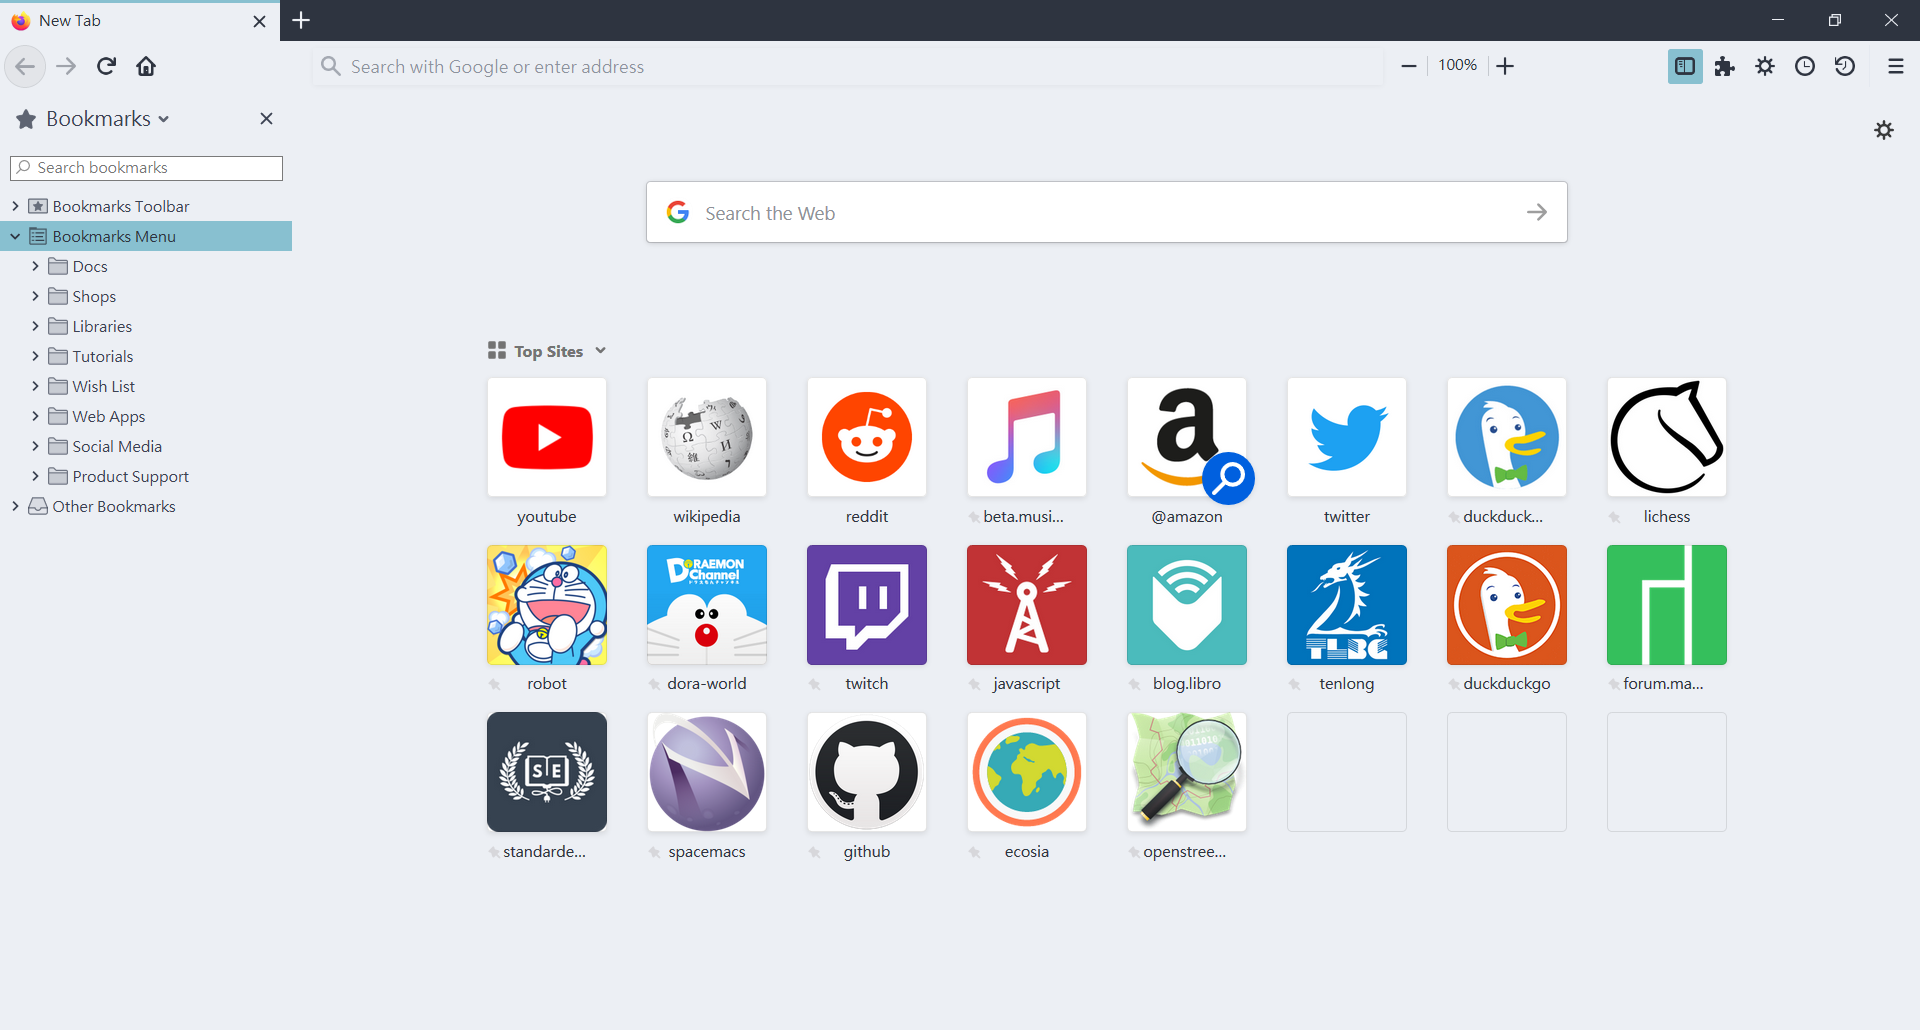
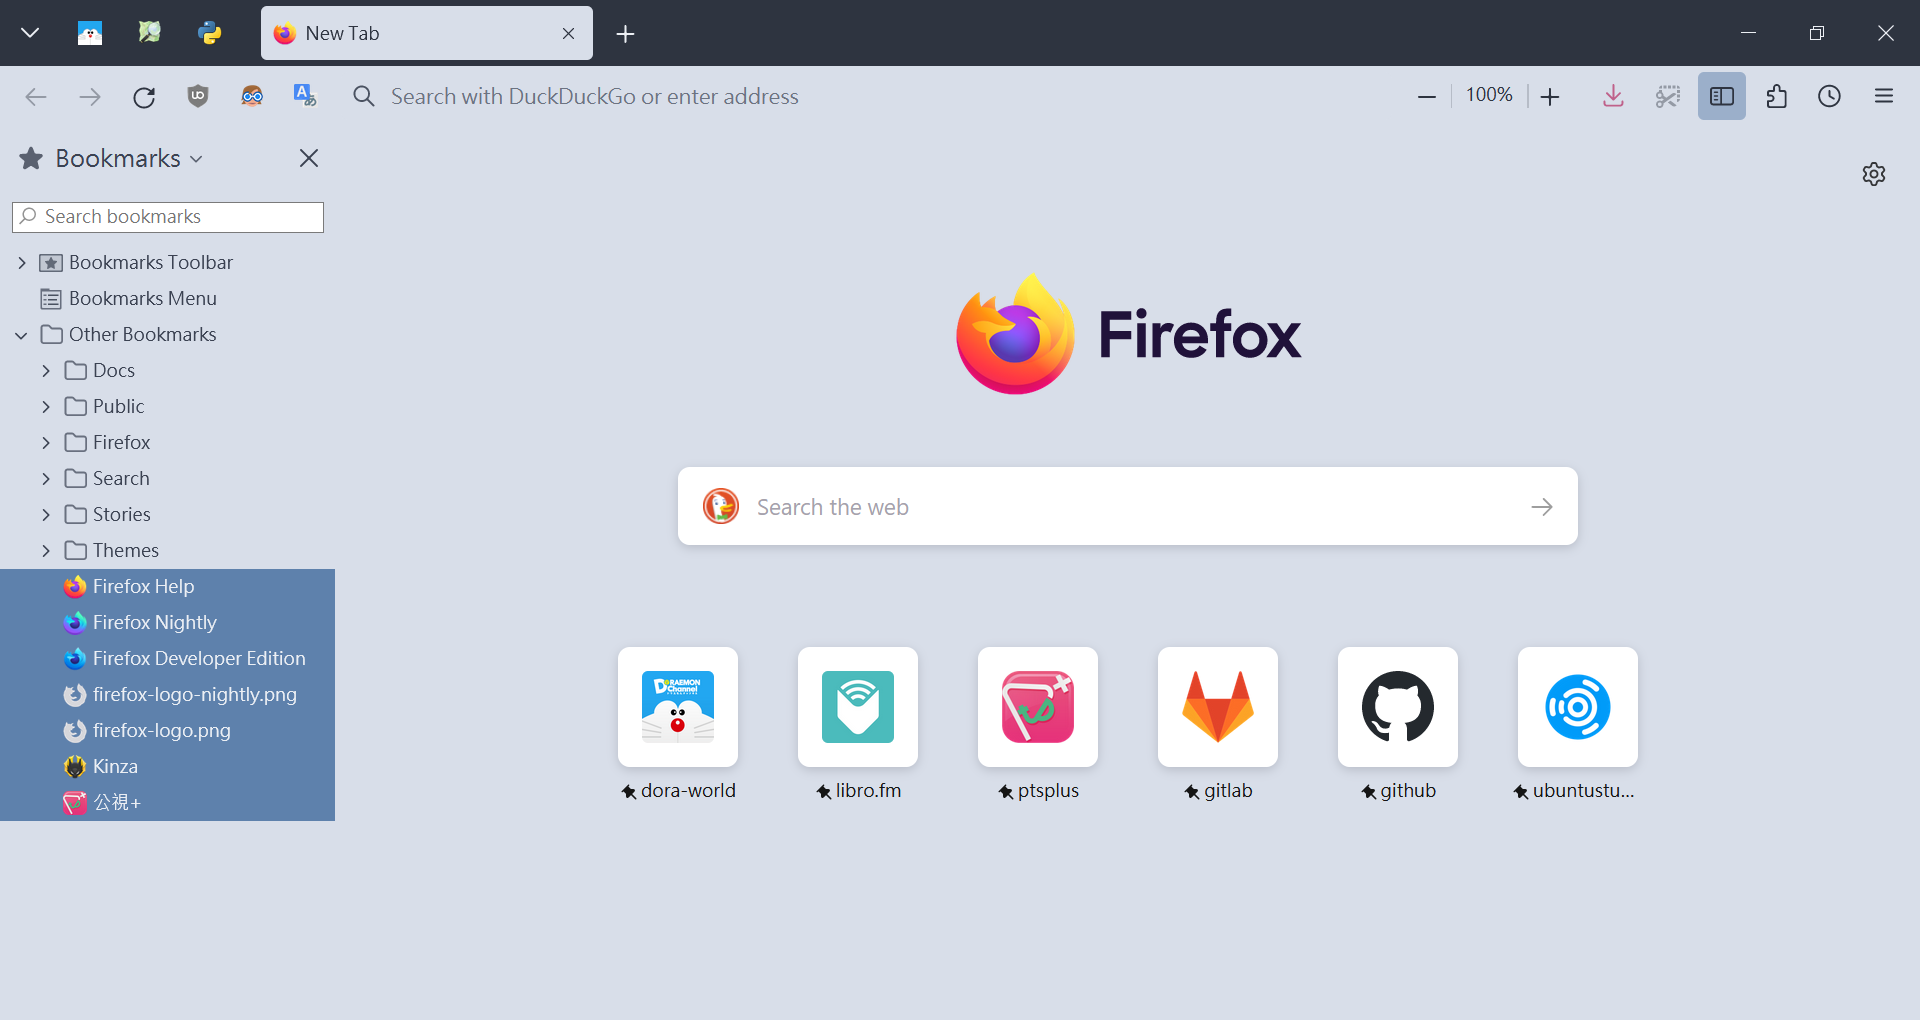
v2.0

diff --git a/CHANGELOG.md b/CHANGELOG.md
@@ -1,5 +1,11 @@
-Change Log
-==========
+Changelog
+=========
+
+## [2.0] - 2021-08-24
+* Adapt to Proton UI (Firefox 89+)
+* Change background color to less bright
+* Change selected text/background colors
+* Change `icons_attention` color
 
 ## [1.0] - 2020-01-27
 * First official release

diff --git a/color_palette.md b/color_palette.md
@@ -28,3 +28,9 @@ Aurora
 13. #ebcb8b
 14. #a3be8c
 15. #b48ead
+
+
+Customizations
+--------------
+* #5e81ac80 (button_background_active)
+* #bf618a (icons_attention)
